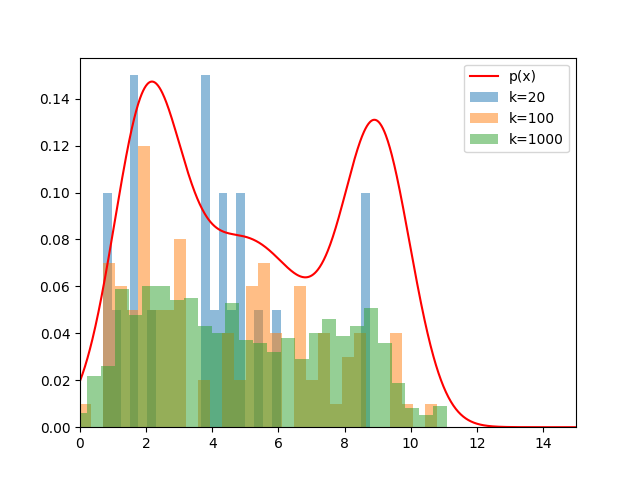
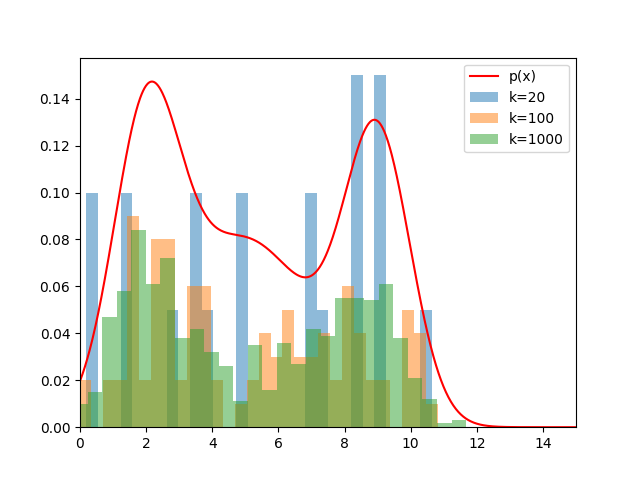
Ex2 - 7. commit

Changed region(s): [[0.125, 0.1562, 0.75, 0.9062]]

diff --git a/Ex2/aflevering.py b/Ex2/aflevering.py
@@ -25,20 +25,30 @@ def p(x):
     return sum(w * norm.pdf(x, mu, sigma) for w, mu, sigma in gaussians)
 
 # Define the proposal distribution q(x)
-def q(x):
+def q_uniform(x):
     return np.random.uniform(0, 15, size=int(x))
 
-# Perform the SIR algorithm
-def sir(k):
-    # Generate initial samples
-    samples = q(k)
+# Define the new proposal distribution q(x)
+def q_gauss(x, drawSample : bool):
+    if drawSample: 
+        return np.random.normal(5, 4, size=int(x))
+    else: 
+        return norm.pdf(x, 5, 4)
 
-    #print(p(samples), p(q(k)), samples, q(k))
+# Perform the SIR algorithm
+def sir(k, distibrution):
     # Compute weights
-    weights = p(samples)
+    if distibrution == 'uniform':
+        # Generate initial samples
+        samples = q_uniform(k)
+        weights = p(samples) / q_uniform(k)
+    elif distibrution == 'gauss': 
+        # Generate initial samples
+        samples = q_gauss(k, True)
+        weights = p(samples) / q_gauss(samples, False)
 
     # Normalize weights
-    weights /= sum(weights)
+    weights /= sum(weights) 
 
     # Resample according to weights
     resamples = np.random.choice(samples, size=k, p=weights)
@@ -47,7 +57,7 @@ def sir(k):
 
 # Perform the SIR algorithm for different values of k
 for k in [20, 100, 1000]:
-    resamples = sir(k)
+    resamples = sir(k, 'uniform')
 
     # Calculate histogram
     counts, bins = np.histogram(resamples, bins=30)
@@ -79,13 +89,9 @@ For the next question we choose the proposal distribution q(x) to be a normal di
 Write a python program that produces a set of resampled robot poses x using the Sampling-Importance- Resampling algorithm and the above stated pose distribution p(x) and proposal distribution q(x). Show the distribution of samples after the resampling step for k = 20, 100, 1000 samples / particles. Plot a histogram of the samples together with the wanted pose distribution p(x) (Hint: Take care the the histogram should be scaled as a probability density function to be comparable with p(x)). How well does the histogram of samples fit with p(x) for the different choices of k?
 """
 
-# Define the new proposal distribution q(x)
-def q(x):
-    return np.random.normal(5, 4, size=int(x))
-
 # Perform the SIR algorithm for different values of k
 for k in [20, 100, 1000]:
-    resamples = sir(k)
+    resamples = sir(k, 'gauss')
     # Calculate histogram
     counts, bins = np.histogram(resamples, bins=30)
 

diff --git a/Ex2/Ex2.py b/Ex2/Ex2.py
@@ -1,6 +1,7 @@
 import sys
 import robot 
 import _utils
+import numpy as np
 
 
 #from library import robot, _utils
@@ -9,28 +10,6 @@ import time
 
 # Create a robot object and initialize
 arlo = robot.Robot()
-
-# Move forward
-#arlo.go_diff(_utils.leftWheelFactor*50, _utils.rightWheelFactor*50, 1, 1)
-
-def sensorReadings():
-        # request to read Front sonar ping sensor
-        print("Front sensor = ", arlo.read_front_ping_sensor())
-        sleep(0.041)
-
-        # request to read Back sonar ping sensor
-        print("Back sensor = ", arlo.read_back_ping_sensor())
-        sleep(0.041)
-
-        # request to read Right sonar ping sensorutils
-
-        print("Right sensor = ", arlo.read_right_ping_sensor())
-        sleep(0.041)
-
-        # request to read Left sonar ping sensor
-        print("Left sensor = ", arlo.read_left_ping_sensor())
-        sleep(0.041)
-
 
 ################################
 #          Exercise 1          #
@@ -55,8 +34,8 @@ def drive(wheel):
         pingBack = arlo.read_back_ping_sensor()
         
         if (pingFront <= 200): 
-            _utils.sharp_turn(_utils.right, _utils.degreeToSeconds)
-            turnSeconds = _utils.degreeToSeconds(_utils.degrees)
+            _utils.sharp_turn('right', _utils.degreeToSeconds(90.0))
+            turnSeconds = _utils.degreeToSeconds(90.0) # kan man bare bruge _utils.nintydegree... som defineret i utils?
             _utils.go(turnSeconds)
             arlo.go_diff(_utils.leftWheelFactor*50, _utils.rightWheelFactor*50, 1, 1)
             arlo.stop()
@@ -79,12 +58,6 @@ drive(Wheel)
 #SLUT CAROLINE 
 
 
-
-
-
-# ASGER
-
-# SLUT ASGER
 
 """
 def drive_forward(start, oneMeterSeconds, meters):
@@ -110,3 +83,20 @@ arlo.stop()
 
 
 
+################################
+#          Exercise 2          #
+################################
+
+# ASGER 
+
+def sonar_calibration():
+     # arlo.read_front_ping_sensor()
+     # arlo.read_back_ping_sensor()
+     # arlo.read_right_ping_sensor()
+     # arlo.read_left_ping_sensor()
+    
+    while(readings))
+
+    return 
+
+# SLUT ASGER

diff --git a/Ex2/old.py b/Ex2/old.py
@@ -1,0 +1,20 @@
+# Move forward
+#arlo.go_diff(_utils.leftWheelFactor*50, _utils.rightWheelFactor*50, 1, 1)
+
+def sensorReadings():
+        # request to read Front sonar ping sensor
+        print("Front sensor = ", arlo.read_front_ping_sensor())
+        sleep(0.041)
+
+        # request to read Back sonar ping sensor
+        print("Back sensor = ", arlo.read_back_ping_sensor())
+        sleep(0.041)
+
+        # request to read Right sonar ping sensorutils
+
+        print("Right sensor = ", arlo.read_right_ping_sensor())
+        sleep(0.041)
+
+        # request to read Left sonar ping sensor
+        print("Left sensor = ", arlo.read_left_ping_sensor())
+        sleep(0.041)

diff --git a/Ex2/caro-aflv.py b/Ex2/caro-aflv.py
@@ -66,4 +66,17 @@ for k in [20, 100, 1000]:
     resample = sir(k)
     
     # histogrammet 
+  # histogrammet, bins =30, så vi får halve intervaller, da vi har fra 0-15. 
+    counts, bins = np.histogram(resample, bins=30)
     
+    # Normalize counts by total number of samples
+    fractions = counts / k
+
+    # Plot histogram of fractions
+    plt.bar(bins[:-1], fractions, width=np.diff(bins), alpha=0.5, label=f'k={k}')
+
+plt.legend() # A legend is a way to identify the different lines or curves in a plot.
+plt.title('Sampling Importance Resampling Histogram')
+plt.savefig("Caro forsøg")
+plt.show()
+plt.close

diff --git a/Ex2/_utils.py b/Ex2/_utils.py
@@ -17,7 +17,7 @@ def degreeToSeconds(degrees):
     Argumenter:
         degrees:    grader, der skal drejes
     '''
-    ninetyDegreeTurnSeconds = 0.95
+    ninetyDegreeTurnSeconds = 0.95 
     return (ninetyDegreeTurnSeconds/90) * degrees
 
 def metersToSeconds(meters):
